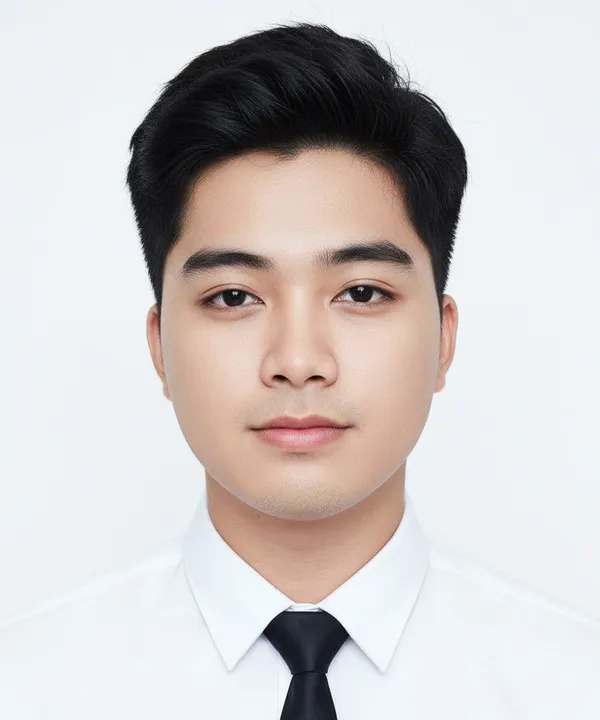
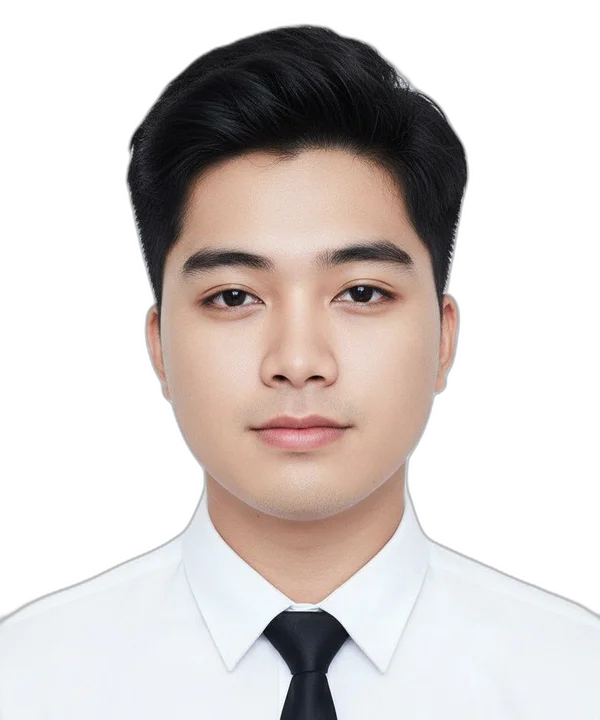
feat(hero): move cutout portrait to hero and clean up section labels

diff --git a/index.html b/index.html
@@ -51,7 +51,6 @@
     <a href="#top" class="nav-brand">MN<span class="nav-brand-dot">.</span></a>
     <nav class="nav-links">
       <a href="#about" data-nav-link="about">About</a>
-      <a href="#skills" data-nav-link="skills">Skills</a>
       <a href="#projects" data-nav-link="projects">Projects</a>
       <a href="#credentials" data-nav-link="credentials">Credentials</a>
       <a href="#contact" data-nav-link="contact">Contact</a>
@@ -73,18 +72,23 @@
       <span class="aurora-blob aurora-3"></span>
     </div>
     <div class="hero-inner">
-      <p class="eyebrow"><span class="pulse-dot"></span> BSIT Student &middot; Occidental Mindoro State University</p>
-      <h1 class="hero-title" data-split>
-        I build systems that<br>
-        <span class="accent">track, record, and run</span> real processes.
-      </h1>
-      <p class="hero-sub">
-        Backend-leaning full-stack developer working across Laravel, ASP.NET, and embedded IoT.
-        Currently deepening my cybersecurity practice alongside coursework.
-      </p>
-      <div class="hero-actions">
-        <a href="#projects" class="btn btn-primary">View Projects</a>
-        <a href="#contact" class="btn btn-ghost">Get in Touch</a>
+      <div class="hero-split">
+        <div class="hero-copy">
+          <p class="eyebrow">BSIT Student &middot; Occidental Mindoro State University</p>
+          <h1 class="hero-title" data-split>
+            I build systems that
+            <span class="accent">track, record, and run</span> real processes.
+          </h1>
+          <p class="hero-sub">
+            Backend-leaning full-stack developer working across Laravel, ASP.NET, and embedded IoT.
+            Currently deepening my cybersecurity practice alongside coursework.
+          </p>
+          <div class="hero-actions">
+            <a href="#projects" class="btn btn-primary">View Projects</a>
+            <a href="#contact" class="btn btn-ghost">Get in Touch</a>
+          </div>
+        </div>
+        <img class="hero-photo" src="assets/images/portrait.webp" alt="Miles Natad" width="600" height="720">
       </div>
 
       <div class="tools-bar">
@@ -134,7 +138,7 @@
   <!-- ABOUT -->
   <section class="section reveal" id="about">
     <div class="section-inner">
-      <p class="section-eyebrow">01 - About</p>
+      <h2 class="section-title">About me</h2>
       <div class="about-grid">
         <div class="about-text">
           <p>
@@ -152,9 +156,35 @@
             I'm currently expanding into cybersecurity, treating it as a core part of how I build,
             not an afterthought.
           </p>
+
+          <div class="skills-grid" id="skills">
+            <div class="skill-group">
+              <h3>Languages</h3>
+              <ul class="tag-list">
+                <li>Java</li><li>C#</li><li>Python</li><li>C++</li><li>JavaScript</li>
+              </ul>
+            </div>
+            <div class="skill-group">
+              <h3>Web &amp; Backend</h3>
+              <ul class="tag-list">
+                <li>Laravel</li><li>PHP</li><li>ASP.NET</li><li>HTML5</li><li>CSS3</li>
+              </ul>
+            </div>
+            <div class="skill-group">
+              <h3>Data</h3>
+              <ul class="tag-list">
+                <li>MySQL</li><li>Excel / VBA</li>
+              </ul>
+            </div>
+            <div class="skill-group">
+              <h3>Hardware &amp; IoT</h3>
+              <ul class="tag-list">
+                <li>ESP32</li><li>Arduino IDE</li><li>UHF RFID</li>
+              </ul>
+            </div>
+          </div>
         </div>
         <div class="about-meta">
-          <img class="about-photo" src="assets/images/portrait.webp" alt="Miles Natad" width="600" height="720">
           <div class="meta-card">
             <span class="meta-label">Focus</span>
             <span class="meta-value">Backend &amp; Systems</span>
@@ -172,50 +202,9 @@
     </div>
   </section>
 
-  <!-- SKILLS -->
-  <section class="section section-alt reveal" id="skills">
-    <div class="section-inner">
-      <p class="section-eyebrow">02 - Skills</p>
-      <h2 class="section-title">What I work with</h2>
-
-      <div class="skills-grid">
-
-        <div class="skill-group">
-          <h3>Languages</h3>
-          <ul class="tag-list">
-            <li>Java</li><li>C#</li><li>Python</li><li>C++</li><li>JavaScript</li>
-          </ul>
-        </div>
-
-        <div class="skill-group">
-          <h3>Web &amp; Backend</h3>
-          <ul class="tag-list">
-            <li>Laravel</li><li>PHP</li><li>ASP.NET</li><li>HTML5</li><li>CSS3</li>
-          </ul>
-        </div>
-
-        <div class="skill-group">
-          <h3>Data</h3>
-          <ul class="tag-list">
-            <li>MySQL</li><li>Excel / VBA</li>
-          </ul>
-        </div>
-
-        <div class="skill-group">
-          <h3>Hardware &amp; IoT</h3>
-          <ul class="tag-list">
-            <li>ESP32</li><li>Arduino IDE</li><li>UHF RFID</li>
-          </ul>
-        </div>
-
-      </div>
-    </div>
-  </section>
-
   <!-- PROJECTS -->
-  <section class="section reveal" id="projects">
+  <section class="section section-alt reveal" id="projects">
     <div class="section-inner">
-      <p class="section-eyebrow">03 - Projects</p>
       <h2 class="section-title">Selected work</h2>
 
       <div class="project-carousel">
@@ -228,11 +217,10 @@
         <article class="project-card project-slide" data-glow data-more="capstone">
           <div class="project-media">
             <img src="assets/images/capstone-dashboard.webp" alt="RFID monitoring admin dashboard with daily entry and exit counts and a 7-day chart" style="object-position: left top">
-            <span class="status-badge status-live">Live</span>
           </div>
           <div class="project-body">
             <h3>IoT Student Entry/Exit Monitoring System</h3>
-            <p class="project-role">Capstone Project</p>
+            <p class="project-role">Capstone Project <span class="status-badge status-live">Live</span></p>
             <p class="project-desc">
               An attendance-tracking system built around UHF RFID hardware. Students, teachers, and
               admins each get a distinct dashboard. Every entry, exit, and staff login/logout is
@@ -258,11 +246,10 @@
         <article class="project-card project-slide" data-glow data-more="thrive">
           <div class="project-media">
             <img src="assets/images/thrive-dashboard.webp" alt="Thrive dashboard showing balance, cash flow chart, and spending by category" style="object-position: left top">
-            <span class="status-badge status-live">In Use</span>
           </div>
           <div class="project-body">
             <h3>Thrive</h3>
-            <p class="project-role">Personal Project</p>
+            <p class="project-role">Personal Project <span class="status-badge status-live">In Use</span></p>
             <p class="project-desc">
               A self-hosted money tracker for a small group. Budgets, shared books with split
               expenses, recurring transactions, and receipt scanning, with all data in one
@@ -287,11 +274,10 @@
         <article class="project-card project-slide" data-glow>
           <div class="project-media">
             <img src="assets/images/karaoke.webp" alt="Karaoke room with a connected guest, chat, a playing karaoke video, and synced lyrics" style="object-position: center top">
-            <span class="status-badge status-live">Complete</span>
           </div>
           <div class="project-body">
             <h3>Personal Karaoke</h3>
-            <p class="project-role">Personal Project</p>
+            <p class="project-role">Personal Project <span class="status-badge status-live">Complete</span></p>
             <p class="project-desc">
               A real-time karaoke room for up to 6 friends. Everyone watches the same YouTube
               video in sync, follows the same lyrics, and sings together on a live call.
@@ -326,7 +312,6 @@ room 204, Dec 22 to 24
                  for the selected dates."]
   }
 }</code></pre>
-            <span class="status-badge status-client">Internship</span>
           </div>
           <div class="project-body">
             <h3>Hotel Booking API</h3>
@@ -353,7 +338,6 @@ room 204, Dec 22 to 24
         <article class="project-card project-slide" data-glow>
           <div class="project-media">
             <img src="assets/images/pos.webp" alt="G4 Store Excel POS with a sample order, totals, and change computed" style="object-position: right top">
-            <span class="status-badge status-client">Freelance</span>
           </div>
           <div class="project-body">
             <h3>Excel POS System</h3>
@@ -398,7 +382,6 @@ room 204, Dec 22 to 24
   <!-- CREDENTIALS -->
   <section class="section reveal" id="credentials">
     <div class="section-inner">
-      <p class="section-eyebrow">04 - Credentials</p>
       <h2 class="section-title">Certifications &amp; awards</h2>
 
       <div class="credentials-grid">
@@ -474,7 +457,6 @@ room 204, Dec 22 to 24
   <!-- CONTACT -->
   <section class="section section-alt reveal" id="contact">
     <div class="section-inner">
-      <p class="section-eyebrow">05 - Contact</p>
       <h2 class="section-title">Let's talk</h2>
       <p class="contact-sub">Open to freelance work, internships, and anything that involves building real systems.</p>
 

diff --git a/style.css b/style.css
@@ -7,7 +7,6 @@
   --bg-panel-2: #132726;
   --teal-600: #0F6466;
   --teal-400: #1E8C8A;
-  --teal-glow: rgba(30, 140, 138, 0.35);
   --amber: #E3A857;
   --amber-bright: #F2C275;
   --text-primary: #EAF2F0;
@@ -250,6 +249,23 @@ img { max-width: 100%; display: block; }
   margin: 0 auto;
 }
 
+.hero-split {
+  display: grid;
+  grid-template-columns: 1.5fr 1fr;
+  align-items: center;
+  gap: 48px;
+}
+
+/* Cutout portrait fades into the page at the bottom, so it sits on the aurora, not in a box. */
+.hero-photo {
+  justify-self: end;
+  width: 100%;
+  max-width: 360px;
+  height: auto;
+  -webkit-mask-image: radial-gradient(ellipse 70% 80% at 50% 38%, #000 62%, transparent 100%);
+          mask-image: radial-gradient(ellipse 70% 80% at 50% 38%, #000 62%, transparent 100%);
+}
+
 .eyebrow {
   display: inline-flex;
   align-items: center;
@@ -265,26 +281,12 @@ img { max-width: 100%; display: block; }
   background: var(--bg-panel);
 }
 
-.pulse-dot {
-  width: 7px; height: 7px;
-  border-radius: 50%;
-  background: var(--amber-bright);
-  box-shadow: 0 0 8px 2px var(--teal-glow);
-  animation: pulse 2s ease-in-out infinite;
-}
-
-@keyframes pulse {
-  0%, 100% { opacity: 1; }
-  50% { opacity: 0.4; }
-}
-
 .hero-title {
   font-family: var(--font-display);
   font-weight: 700;
-  font-size: clamp(2.2rem, 5.5vw, 4rem);
+  font-size: clamp(2.2rem, 4.6vw, 3.5rem);
   line-height: 1.12;
   letter-spacing: -0.01em;
-  max-width: 820px;
   margin-bottom: 28px;
 }
 
@@ -487,14 +489,6 @@ img { max-width: 100%; display: block; }
   margin: 0 auto;
 }
 
-.section-eyebrow {
-  font-family: var(--font-mono);
-  font-size: 0.8rem;
-  color: var(--amber);
-  letter-spacing: 0.08em;
-  margin-bottom: 16px;
-}
-
 .section-title {
   font-family: var(--font-display);
   font-weight: 600;
@@ -523,14 +517,8 @@ img { max-width: 100%; display: block; }
   gap: 16px;
 }
 
-.about-photo {
-  width: 100%;
-  max-width: 280px;
-  height: auto;
-  aspect-ratio: 5 / 6;
-  object-fit: cover;
-  border-radius: var(--radius);
-  border: 1px solid var(--border);
+.about-text .skills-grid {
+  margin-top: 40px;
 }
 
 .meta-card {
@@ -851,19 +839,17 @@ body:has(.project-dialog[open]) { overflow: hidden; }
 }
 
 .status-badge {
-  position: absolute;
-  top: 16px;
-  left: 16px;
+  display: inline-block;
+  margin-left: 8px;
+  vertical-align: 1px;
   font-family: var(--font-mono);
-  font-size: 0.7rem;
-  padding: 5px 12px;
+  font-size: 0.68rem;
+  padding: 2px 10px;
   border-radius: 999px;
   letter-spacing: 0.03em;
 }
 
 .status-live { background: var(--teal-600); color: #E8FBFA; }
-.status-dev { background: var(--amber); color: #14100a; }
-.status-client { background: var(--bg-panel); color: var(--amber-bright); border: 1px solid var(--border-strong); }
 
 .project-body {
   padding: 32px;
@@ -1151,6 +1137,8 @@ body:has(.project-dialog[open]) { overflow: hidden; }
    RESPONSIVE
    ============================================ */
 @media (max-width: 860px) {
+  .hero-split { grid-template-columns: 1fr; gap: 24px; }
+  .hero-photo { order: -1; justify-self: start; max-width: 180px; }
   .about-grid { grid-template-columns: 1fr; gap: 40px; }
   .project-card { grid-template-columns: 1fr; }
   .project-media { min-height: 180px; }

diff --git a/script.js b/script.js
@@ -39,7 +39,7 @@ if ('IntersectionObserver' in window) {
 
 // Active nav link highlighting based on section in view
 const navLinks = document.querySelectorAll('[data-nav-link]');
-const trackedSections = ['about', 'skills', 'projects', 'credentials', 'contact']
+const trackedSections = ['about', 'projects', 'credentials', 'contact']
   .map(id => document.getElementById(id))
   .filter(Boolean);
 
